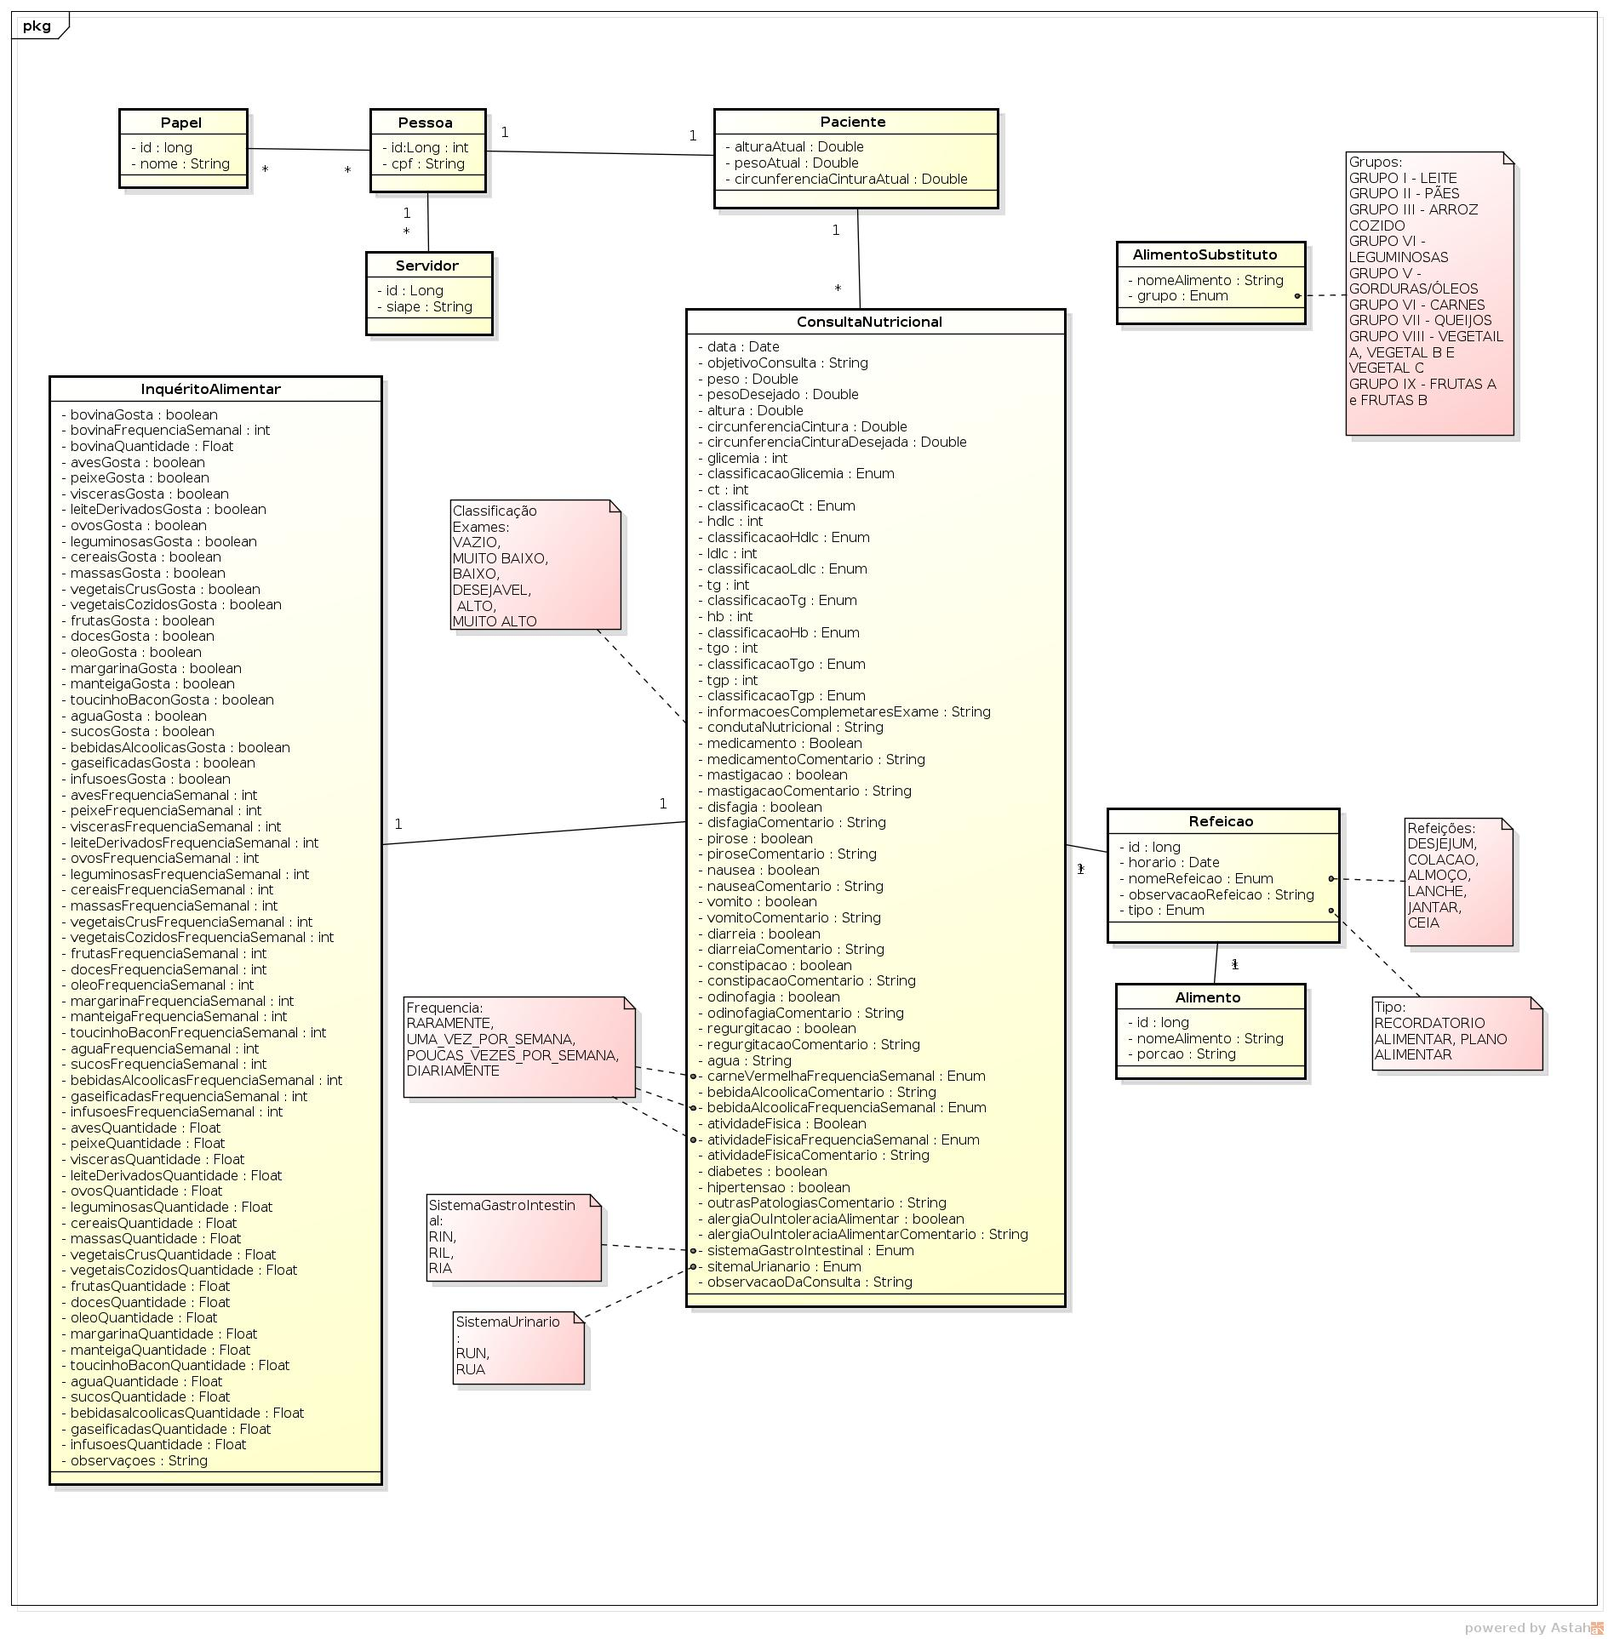
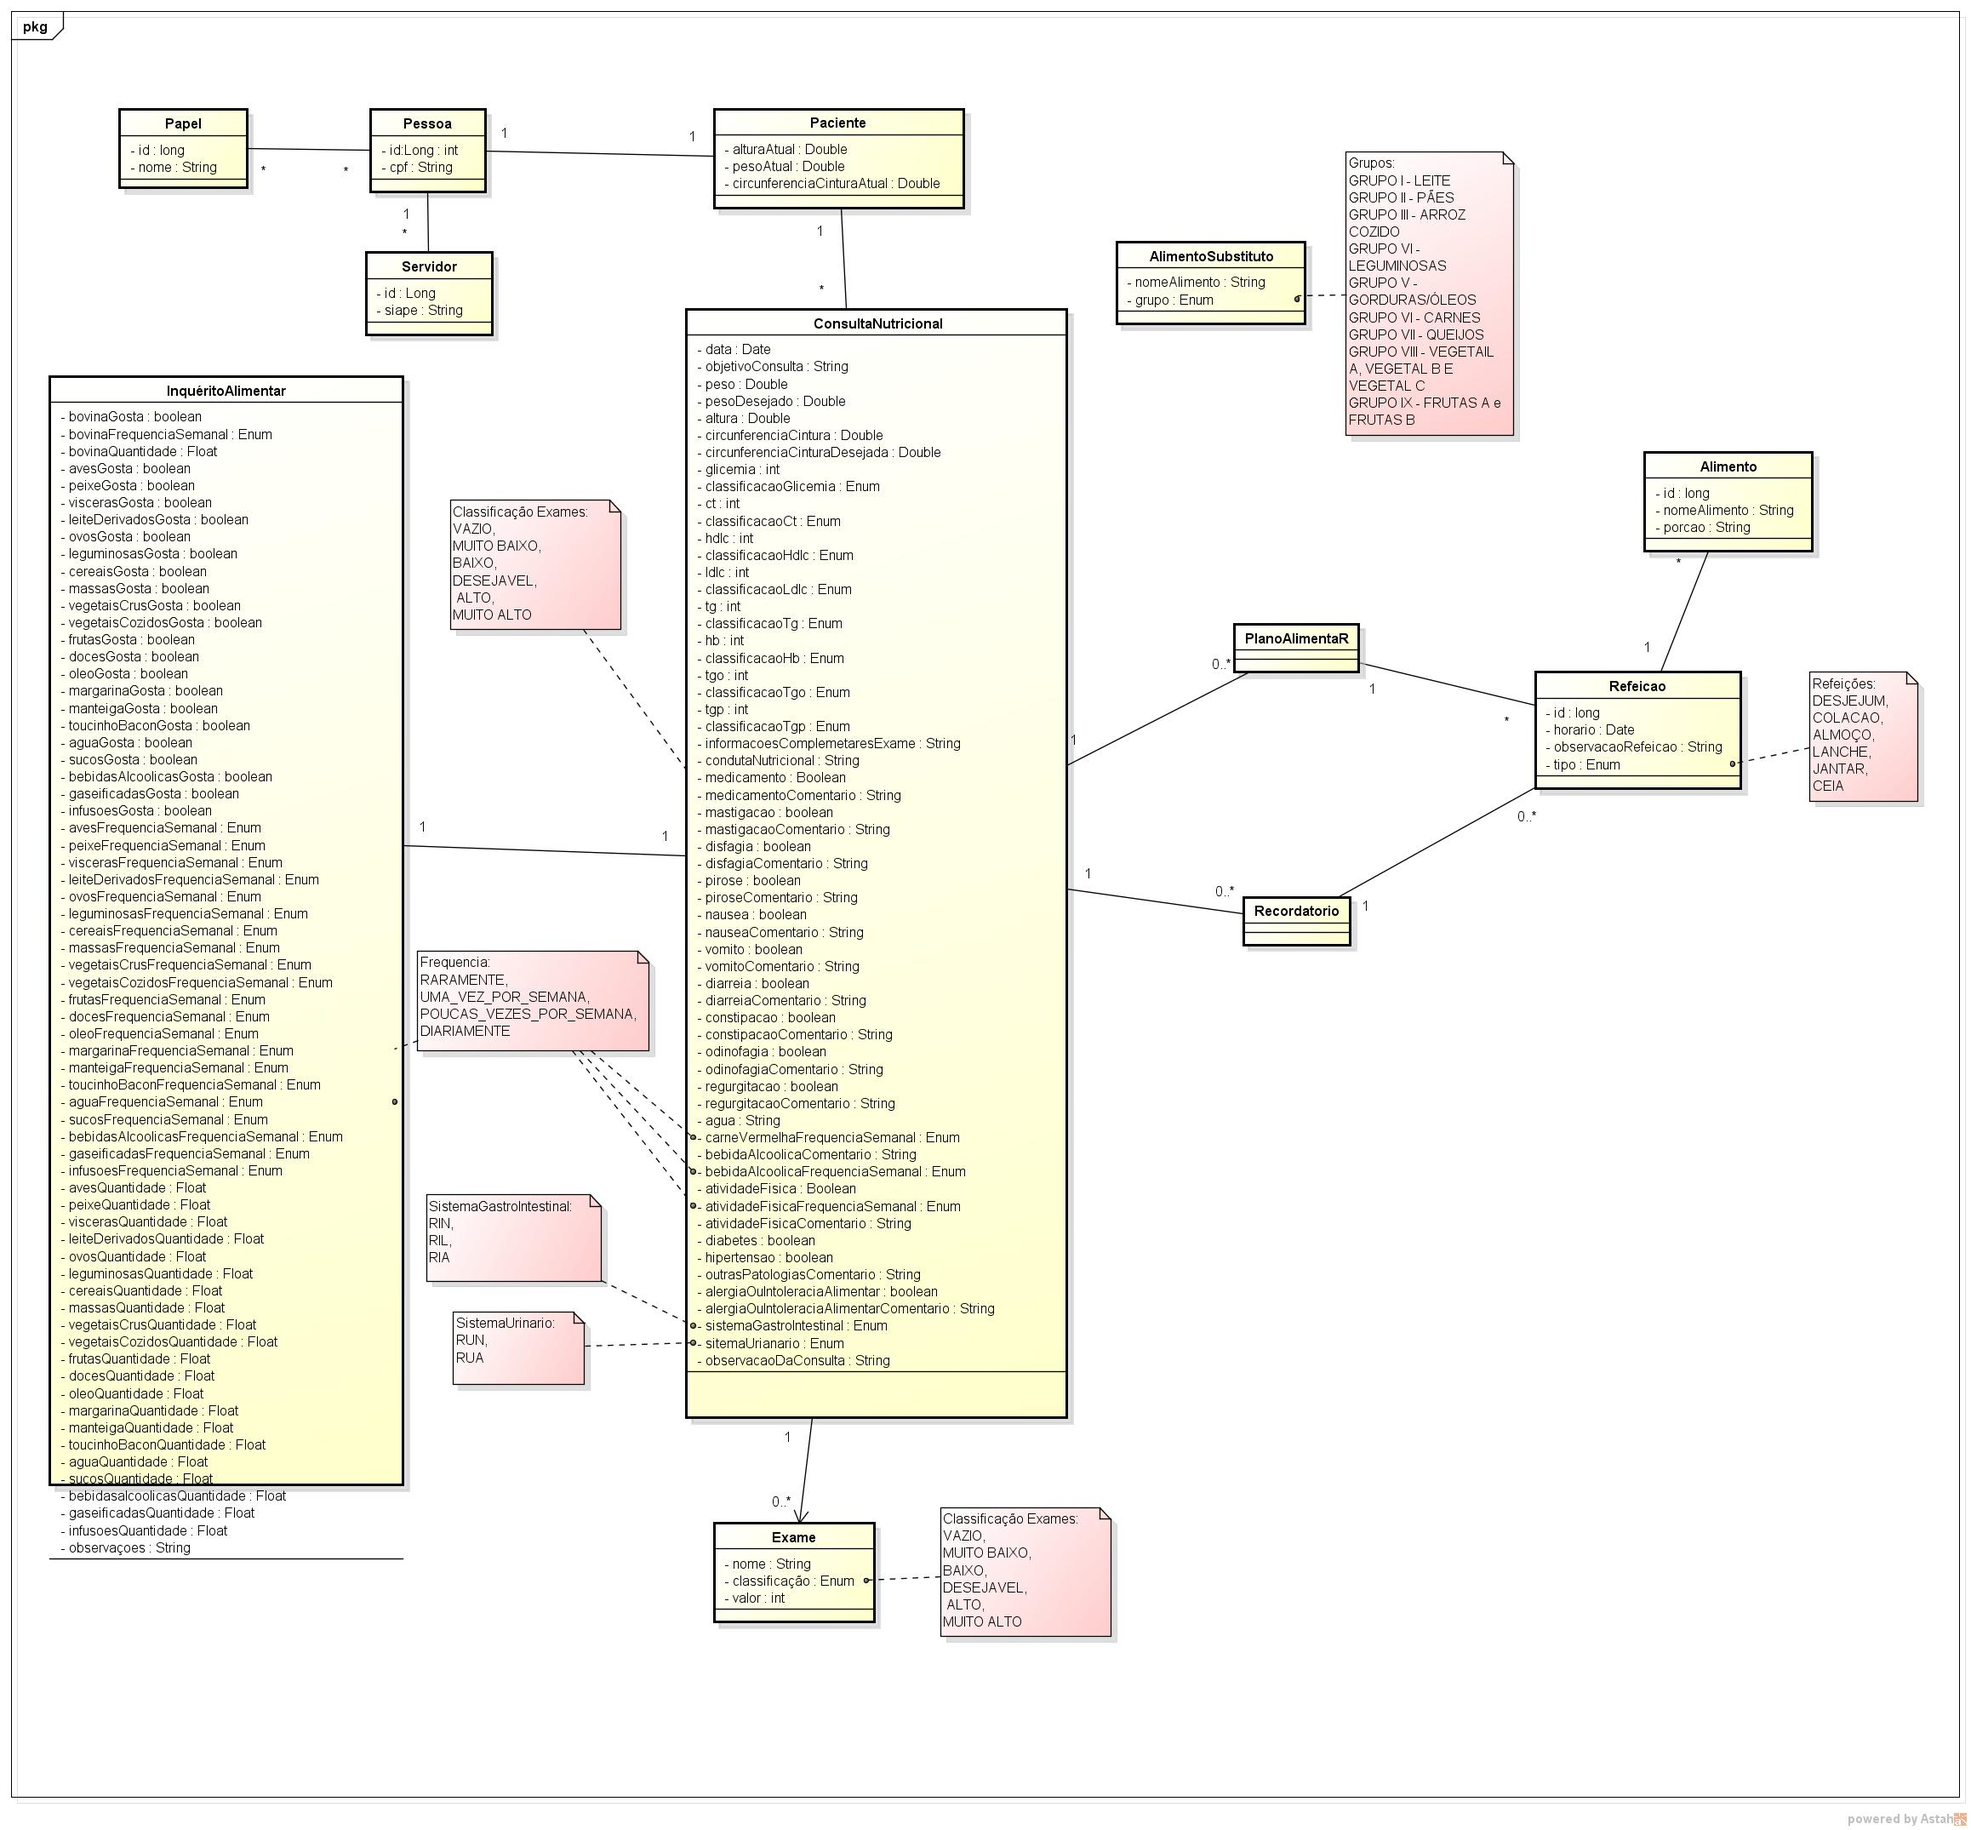
SN-34 Permitir cadastrar mais de um recordatório por consulta (back-end)

diff --git a/aplicacoes/sinutri/src/main/java/br/ufc/quixada/npi/sisat/controller/PacienteController.java b/aplicacoes/sinutri/src/main/java/br/ufc/quixada/npi/sisat/controller/PacienteController.java
@@ -100,8 +100,8 @@ public class PacienteController {
 			return "redirect:/nutricao/buscar";
 		}
 
-		consulta.setFrequencias(consultaNutricionalService.getFrequenciasByIdConsultaByTipo(id, TipoFrequencia.RECORDATORIO));
-		model.addAttribute("consulta", consulta);
+//		consulta.setFrequencias(consultaNutricionalService.getFrequenciasByIdConsultaByTipo(id, TipoFrequencia.RECORDATORIO));
+//		model.addAttribute("consulta", consulta);
 		return "nutricao/informacoes-consulta";
 	}
 
@@ -211,10 +211,10 @@ public class PacienteController {
 		if (consulta.getBebidaAlcoolicaComentario() != null && consulta.getBebidaAlcoolicaComentario().isEmpty()) {
 			consulta.setBebidaAlcoolicaComentario(null);
 		}
-		
-		if(consulta.getFrequencias() != null ){
-			atualizarFrequenciaAlimentar(consulta.getFrequencias(), consulta, TipoFrequencia.RECORDATORIO);
-		}
+//		
+//		if(consulta.getFrequencias() != null ){
+//			atualizarFrequenciaAlimentar(consulta.getFrequencias(), consulta, TipoFrequencia.RECORDATORIO);
+//		}
 
 		consultaNutricionalService.save(consulta);
 
@@ -309,9 +309,9 @@ public class PacienteController {
 
 		consulta.setData(data);
 		
-		if(consulta.getFrequencias() != null ){
-			atualizarFrequenciaAlimentar(consulta.getFrequencias(), consulta, TipoFrequencia.RECORDATORIO);
-		}
+//		if(consulta.getFrequencias() != null ){
+//			atualizarFrequenciaAlimentar(consulta.getFrequencias(), consulta, TipoFrequencia.RECORDATORIO);
+//		}
 		
 		consulta.getInqueritoAlimentar().setConsultaNutricional(consulta);
 
@@ -367,10 +367,10 @@ public class PacienteController {
 	@RequestMapping (value = { "consulta/{idConsulta}/plano-alimentar"}, method = RequestMethod.GET)
 	public String getRecordatorio(@PathVariable("idConsulta") Long id, Model model){
 		ConsultaNutricional consultaRecordatorio = consultaNutricionalService.getConsultaNutricionalWithDocumentosById(id);
-		consultaRecordatorio.setFrequencias(consultaNutricionalService.getFrequenciasByIdConsultaByTipo(id, TipoFrequencia.RECORDATORIO));
+//		consultaRecordatorio.setFrequencias(consultaNutricionalService.getFrequenciasByIdConsultaByTipo(id, TipoFrequencia.RECORDATORIO));
 		
 		ConsultaNutricional consultaPlanoAlimentar = consultaNutricionalService.getConsultaNutricionalWithDocumentosById(id);
-		consultaPlanoAlimentar.setFrequencias(consultaNutricionalService.getFrequenciasByIdConsultaByTipo(id, TipoFrequencia.PLANOALIMENTAR));		
+//		consultaPlanoAlimentar.setFrequencias(consultaNutricionalService.getFrequenciasByIdConsultaByTipo(id, TipoFrequencia.PLANOALIMENTAR));		
 		
 		model.addAttribute("consultaRecordatorio", consultaRecordatorio);
 		model.addAttribute("consultaPlanoAlimentar", consultaPlanoAlimentar);
@@ -389,10 +389,10 @@ public class PacienteController {
 	@RequestMapping (value = { "consulta/{idConsulta}/form-plano-alimentar"}, method = RequestMethod.GET)
 	public String getPlanoAlimentar(@PathVariable("idConsulta") Long id, Model model){
 		ConsultaNutricional consultaRecordatorio = consultaNutricionalService.getConsultaNutricionalWithDocumentosById(id);
-		consultaRecordatorio.setFrequencias(consultaNutricionalService.getFrequenciasByIdConsultaByTipo(id, TipoFrequencia.RECORDATORIO));
+//		consultaRecordatorio.setFrequencias(consultaNutricionalService.getFrequenciasByIdConsultaByTipo(id, TipoFrequencia.RECORDATORIO));
 		
 		ConsultaNutricional consultaPlanoAlimentar = consultaNutricionalService.getConsultaNutricionalWithDocumentosById(id);
-		consultaPlanoAlimentar.setFrequencias(consultaNutricionalService.getFrequenciasByIdConsultaByTipo(id, TipoFrequencia.PLANOALIMENTAR));		
+//		consultaPlanoAlimentar.setFrequencias(consultaNutricionalService.getFrequenciasByIdConsultaByTipo(id, TipoFrequencia.PLANOALIMENTAR));		
 		
 		model.addAttribute("consultaRecordatorio", consultaRecordatorio);
 		model.addAttribute("consultaPlanoAlimentar", consultaPlanoAlimentar);
@@ -411,17 +411,17 @@ public class PacienteController {
 	public String salvarPlanoAlimentar(@PathVariable("idConsulta") Long id, Model model, @ModelAttribute("consulta") ConsultaNutricional consultaAtual, RedirectAttributes redirectAttributes){
 		
 		ConsultaNutricional consulta = consultaNutricionalService.getConsultaNutricionalWithDocumentosById(id);
-		consulta.setFrequencias(consultaNutricionalService.getFrequenciasByIdConsultaByTipo(id, TipoFrequencia.RECORDATORIO));
+//		consulta.setFrequencias(consultaNutricionalService.getFrequenciasByIdConsultaByTipo(id, TipoFrequencia.RECORDATORIO));
 				
 		model.addAttribute("action", "cadastrar");
 		model.addAttribute("consulta", consulta);
 		
-		if (consultaAtual.getFrequencias() != null){
-			atualizarFrequenciaAlimentar(consultaAtual.getFrequencias(),consultaAtual, TipoFrequencia.PLANOALIMENTAR);
-			consulta.getFrequencias().addAll(consultaAtual.getFrequencias());
-		}
+//		if (consultaAtual.getFrequencias() != null){
+//			atualizarFrequenciaAlimentar(consultaAtual.getFrequencias(),consultaAtual, TipoFrequencia.PLANOALIMENTAR);
+//			consulta.getFrequencias().addAll(consultaAtual.getFrequencias());
+//		}
 
-		atualizarFrequenciaAlimentar(consulta.getFrequencias(), consulta);
+//		atualizarFrequenciaAlimentar(consulta.getFrequencias(), consulta);
 
 		consultaNutricionalService.update(consulta);
 		
@@ -478,9 +478,9 @@ public class PacienteController {
 		List<FrequenciaAlimentar> frequencias = new ArrayList<FrequenciaAlimentar>();
 		for (FrequenciaAlimentar frequenciaAlimentar : frequenciaAlimentars) {
 			if (frequenciaAlimentar != null) {
-				frequenciaAlimentar.setConsultaNutricional(consultaNutricional);				
+//				frequenciaAlimentar.setConsultaNutricional(consultaNutricional);				
 				frequenciaAlimentar.setAlimentos(atualizarAlimentacao(frequenciaAlimentar));
-				frequenciaAlimentar.setTipo(tipo);
+//				frequenciaAlimentar.setTipo(tipo);
 				frequencias.add(frequenciaAlimentar);
 			}
 		}
@@ -492,7 +492,7 @@ public class PacienteController {
 		for (FrequenciaAlimentar frequenciaAlimentar : frequenciaAlimentars) {
 
 			if (frequenciaAlimentar != null) {
-				frequenciaAlimentar.setConsultaNutricional(consultaNutricional);				
+//				frequenciaAlimentar.setConsultaNutricional(consultaNutricional);				
 				frequenciaAlimentar.setAlimentos(atualizarAlimentacao(frequenciaAlimentar));
 				frequencias.add(frequenciaAlimentar);
 			}

diff --git a/aplicacoes/sinutri/src/main/java/br/ufc/quixada/npi/sisat/model/ConsultaNutricional.java b/aplicacoes/sinutri/src/main/java/br/ufc/quixada/npi/sisat/model/ConsultaNutricional.java
@@ -32,10 +32,10 @@ import br.ufc.quixada.npi.sisat.model.enuns.SistemaGastrointestinal;
 import br.ufc.quixada.npi.sisat.model.enuns.SistemaUrinario;
 
 @NamedQueries({
-	@NamedQuery(name = "ConsultaNutricional.findFrequenciasByIdconsultaByTipo", query = "select f from FrequenciaAlimentar f where f.consultaNutricional.id=:id and f.tipofrequencia=:tipo"),
-	@NamedQuery(name = "ConsultaNutricional.findFrequenciaAlimentarByIdConsulta", query = "select f from FrequenciaAlimentar f where f.consultaNutricional.id=:id"),
+//	@NamedQuery(name = "ConsultaNutricional.findFrequenciasByIdconsultaByTipo", query = "select f from FrequenciaAlimentar f where f.consultaNutricional.id=:id and f.tipofrequencia=:tipo"),
+//	@NamedQuery(name = "ConsultaNutricional.findFrequenciaAlimentarByIdConsulta", query = "select f from FrequenciaAlimentar f where f.consultaNutricional.id=:id"),
 	@NamedQuery(name = "ConsultaNutricional.findConsultaNutricionalWithDocumentosById", query = "select c from ConsultaNutricional c left join fetch c.documentos where c.id=:id"),
-	@NamedQuery(name = "ConsultaNutricional.findFrequenciasByIdConsulta", query = "select DISTINCT f from FrequenciaAlimentar f left join fetch f.alimentos where f.consultaNutricional.id = :id"),
+//	@NamedQuery(name = "ConsultaNutricional.findFrequenciasByIdConsulta", query = "select DISTINCT f from FrequenciaAlimentar f left join fetch f.alimentos where f.consultaNutricional.id = :id"),
 	@NamedQuery(name = "ConsultaNutricional.findOrientacoesIndividuaisById", query = "select c.orientacoesIndividuais from ConsultaNutricional c where c.id=:id"),
 	@NamedQuery(name = "ConsultaNutricional.findPacientePessoaCpfById", query = "select c.paciente.pessoa.cpf from ConsultaNutricional c where c.id=:id"), 
 	@NamedQuery(name = "ConsultaNutricional.countFrequenciaMastigacao", query = "select count(c.mastigacao) from ConsultaNutricional c where c.mastigacao = TRUE"),
@@ -61,9 +61,9 @@ public class ConsultaNutricional {
 	@GeneratedValue(strategy = GenerationType.IDENTITY)
 	private Long id;
 
-	@OneToMany(mappedBy = "consultaNutricional", cascade = CascadeType.ALL)
-	@JsonIgnore
-	private List<FrequenciaAlimentar> frequencias;
+//	@OneToMany(mappedBy = "consultaNutricional", cascade = CascadeType.ALL)
+//	@JsonIgnore
+//	private List<FrequenciaAlimentar> frequencias;
 
 	@ManyToOne
 	@JoinColumn(name = "paciente_id")
@@ -75,6 +75,12 @@ public class ConsultaNutricional {
 	@OneToMany(mappedBy = "consultaNutricional", cascade = CascadeType.ALL)
 	@JsonIgnore
 	private Set<Documento> documentos;
+	
+	
+	@OneToMany(mappedBy = "consultaNutricional", cascade = CascadeType.ALL)
+	@JsonIgnore
+	private List<Recordatorio> recordatorios;
+	
 
 	@DateTimeFormat
 	private Date data;
@@ -258,12 +264,20 @@ public class ConsultaNutricional {
 		this.id = id;
 	}
 
-	public List<FrequenciaAlimentar> getFrequencias() {
-		return frequencias;
+//	public List<FrequenciaAlimentar> getFrequencias() {
+//		return frequencias;
+//	}
+//
+//	public void setFrequencias(List<FrequenciaAlimentar> frequencias) {
+//		this.frequencias = frequencias;
+//	}
+	
+	public List<Recordatorio> getRecordatorio() {
+		return recordatorios;
 	}
 
-	public void setFrequencias(List<FrequenciaAlimentar> frequencias) {
-		this.frequencias = frequencias;
+	public void setRecordatorio(List<Recordatorio> recordatorio) {
+		this.recordatorios = recordatorios;
 	}
 
 	public Date getData() {

diff --git a/aplicacoes/sinutri/src/main/java/br/ufc/quixada/npi/sisat/model/FrequenciaAlimentar.java b/aplicacoes/sinutri/src/main/java/br/ufc/quixada/npi/sisat/model/FrequenciaAlimentar.java
@@ -14,6 +14,7 @@ import javax.persistence.Id;
 import javax.persistence.JoinColumn;
 import javax.persistence.ManyToOne;
 import javax.persistence.OneToMany;
+import javax.persistence.OneToOne;
 import javax.persistence.Temporal;
 import javax.persistence.TemporalType;
 
@@ -37,17 +38,24 @@ public class FrequenciaAlimentar {
 	@Enumerated(EnumType.STRING)
 	private Refeicao refeicao;
 	
-	@Enumerated(EnumType.STRING)
-	private TipoFrequencia tipofrequencia;
+//	@Enumerated(EnumType.STRING)
+//	private TipoFrequencia tipofrequencia;
 	
-	@ManyToOne
-	@JsonIgnore
-	@JoinColumn(name = "consultaNutricional_id")
-	private ConsultaNutricional consultaNutricional;
-    
+//	@ManyToOne
+//	@JsonIgnore
+//	@JoinColumn(name = "consultaNutricional_id")
+//	private ConsultaNutricional consultaNutricional;
+//    
 	@OneToMany(cascade = CascadeType.ALL, fetch=FetchType.EAGER)
 	@JoinColumn(name= "frequenciaalimentar_id")
 	private List<Alimentacao> alimentos;
+	
+	
+	@ManyToOne
+	@JoinColumn(name = "recordatorio_id")
+	@JsonIgnore
+	private Recordatorio recordatorio;
+
 	
 	
 	@Override
@@ -72,15 +80,21 @@ public class FrequenciaAlimentar {
 	}
 
 	
-	public ConsultaNutricional getConsultaNutricional() {
-		return consultaNutricional;
+//	public ConsultaNutricional getConsultaNutricional() {
+//		return consultaNutricional;
+//	}
+//
+//	public void setConsultaNutricional(ConsultaNutricional consultaNutricional) {
+//		this.consultaNutricional = consultaNutricional;
+//	}
+
+
+	public Recordatorio getRecordatorio() {
+		return recordatorio;
 	}
-
-	public void setConsultaNutricional(ConsultaNutricional consultaNutricional) {
-		this.consultaNutricional = consultaNutricional;
+	public void setRecordatorio(Recordatorio recordatorio) {
+		this.recordatorio = recordatorio;
 	}
-
-
 	public void setRefeicao(Refeicao refeicao) {
 		this.refeicao = refeicao;
 	}
@@ -89,12 +103,12 @@ public class FrequenciaAlimentar {
 		return refeicao;
 	}
 	
-	public void setTipo(TipoFrequencia tipofrequencia){
-		this.tipofrequencia = tipofrequencia;
-	}
-	public TipoFrequencia getTipo(){
-		return tipofrequencia;
-	}
+//	public void setTipo(TipoFrequencia tipofrequencia){
+//		this.tipofrequencia = tipofrequencia;
+//	}
+//	public TipoFrequencia getTipo(){
+//		return tipofrequencia;
+//	}
 
 	public Date getHorario() {
 		return horario;

diff --git a/aplicacoes/sinutri/src/main/java/br/ufc/quixada/npi/sisat/model/Recordatorio.java b/aplicacoes/sinutri/src/main/java/br/ufc/quixada/npi/sisat/model/Recordatorio.java
@@ -1,0 +1,48 @@
+package br.ufc.quixada.npi.sisat.model;
+import java.util.List;
+
+import javax.persistence.*;
+
+import org.codehaus.jackson.annotate.JsonIgnore;
+
+import br.ufc.quixada.npi.sisat.model.*;
+
+@Entity
+@Table(uniqueConstraints = @UniqueConstraint(columnNames = { "id"}))
+public class Recordatorio {
+	@Id
+	@GeneratedValue
+	private long id;
+	
+	@OneToMany(mappedBy="recordatorio", cascade = CascadeType.ALL)
+	@JsonIgnore
+	private List<FrequenciaAlimentar> refeicoes;
+	
+	@ManyToOne
+	@JoinColumn(name = "consultaNutricional_id")
+	private ConsultaNutricional consultaNutricional;
+
+	public long getId() {
+		return id;
+	}
+
+	public void setId(long id) {
+		this.id = id;
+	}
+
+	public List<FrequenciaAlimentar> getRefeicoes() {
+		return refeicoes;
+	}
+
+	public void setRefeicoes(List<FrequenciaAlimentar> refeicoes) {
+		this.refeicoes = refeicoes;
+	}
+
+	public ConsultaNutricional getConsultaNutricional() {
+		return consultaNutricional;
+	}
+
+	public void setConsultaNutricional(ConsultaNutricional consultaNutricional) {
+		this.consultaNutricional = consultaNutricional;
+	}
+}
